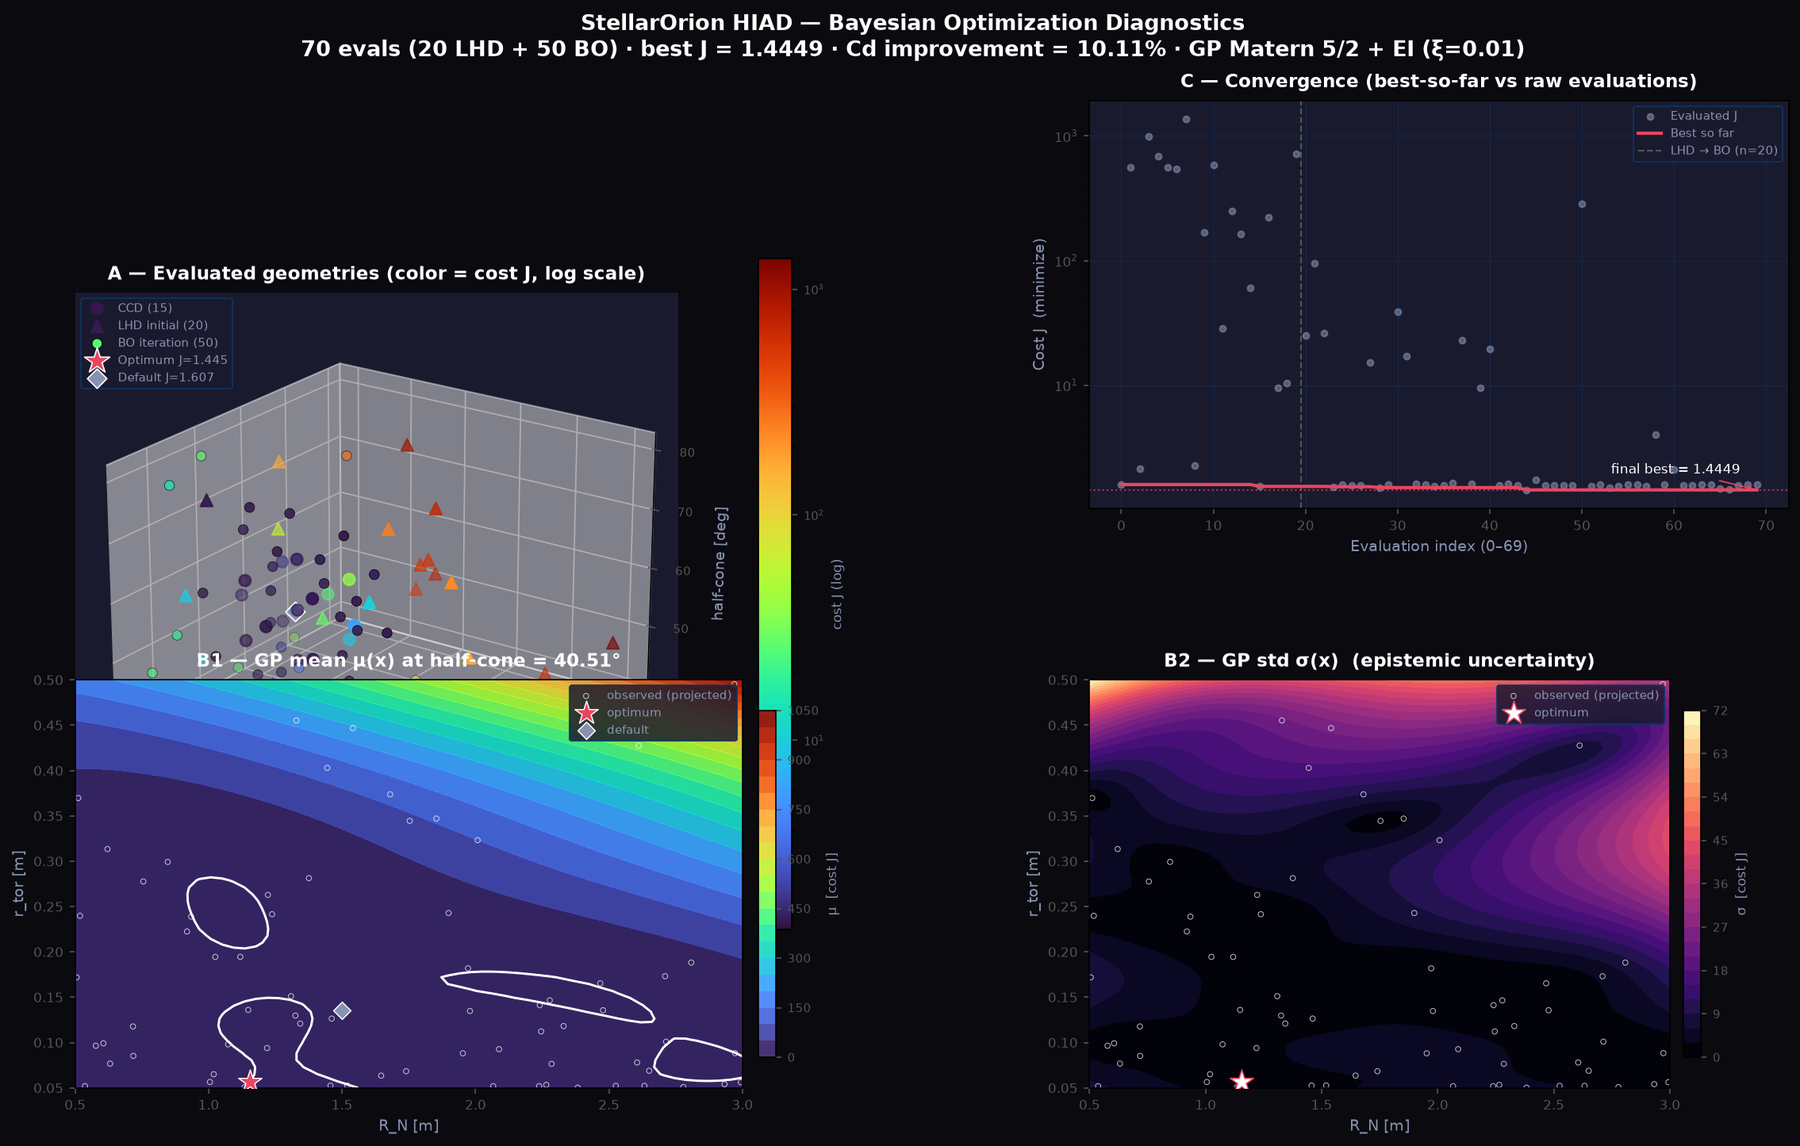
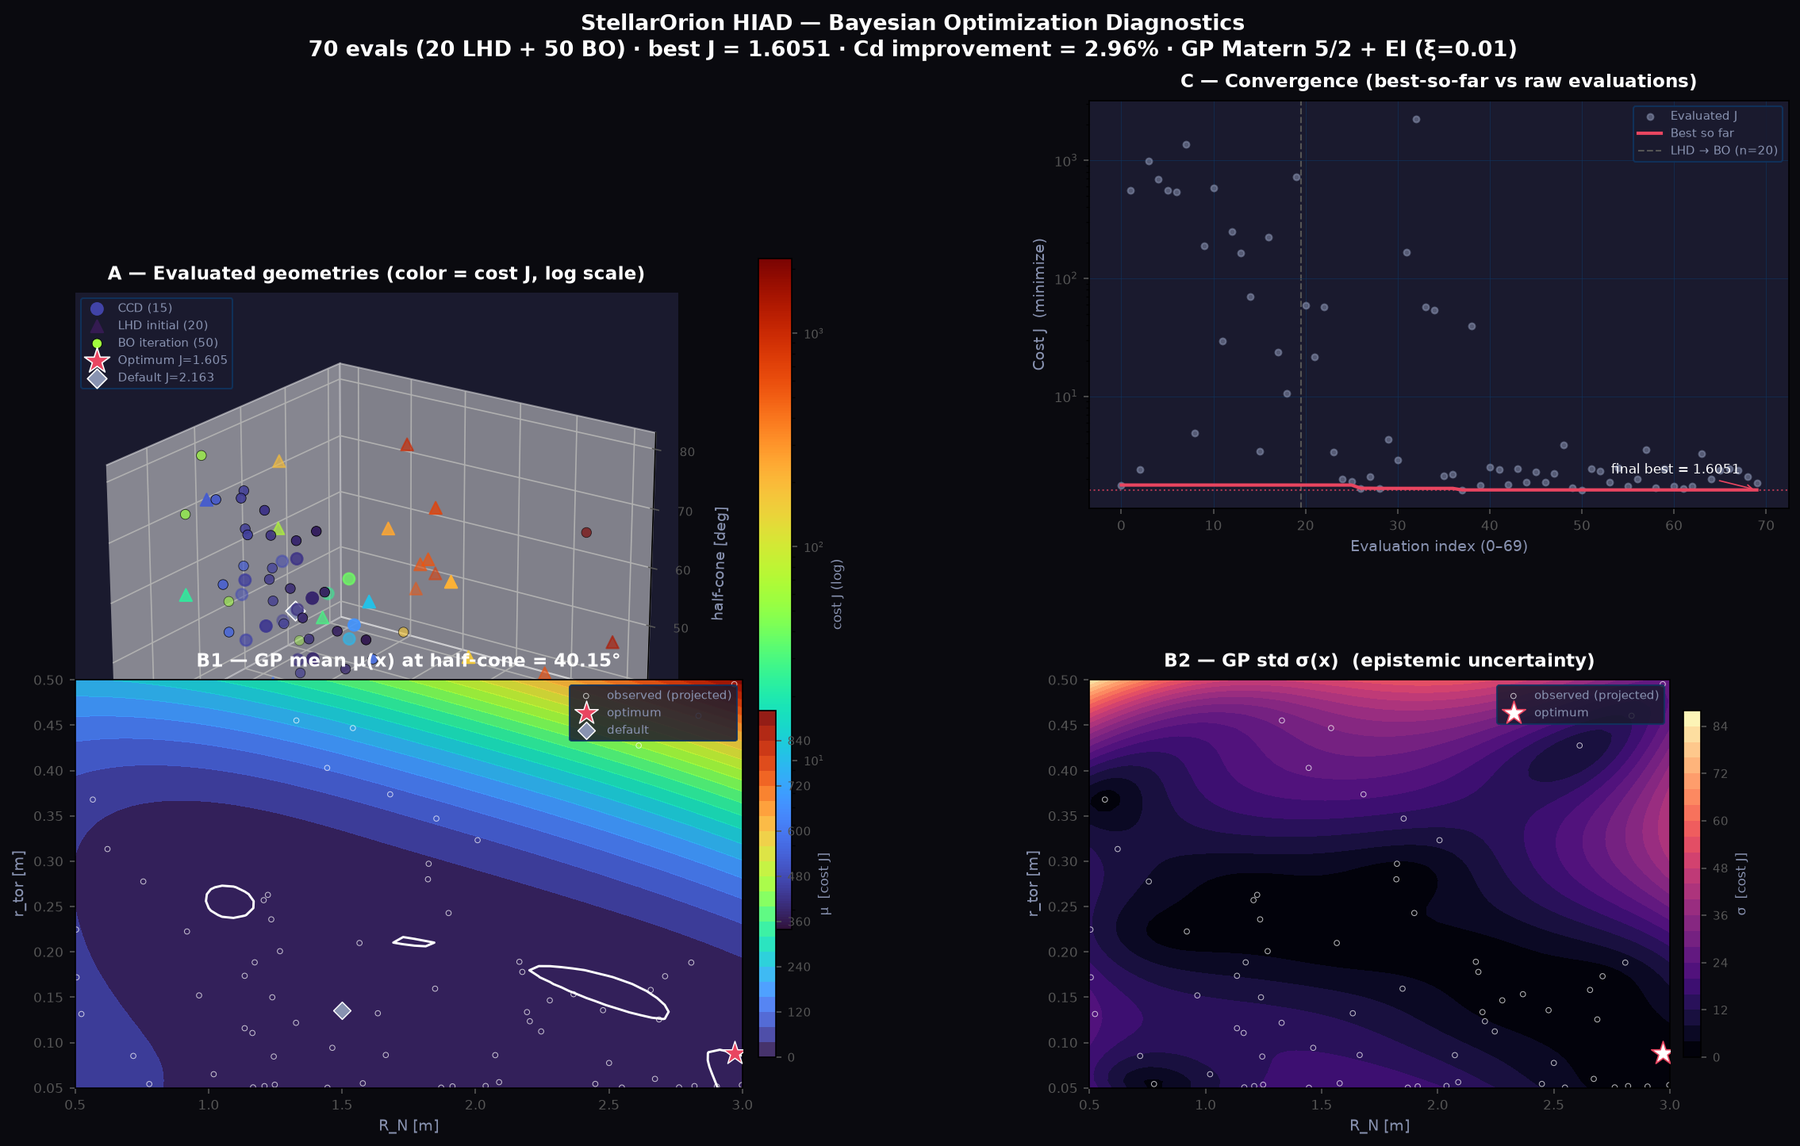
docs(readme): official 2026-09-26 before/after numbers + geometry-grid embed
- prose and topology table switched to the official run stored in
  hiad_optimization_results.json: R_N 2.9714 m (+98.10 %), r_tor 0.0885 m
  (-34.47 %), half-cone 40.15 deg (-33.09 %), Cd 1.5597 (-2.96 %),
  SG 11.47 W/cm2 (-28.95 %), Q 155.67 J/cm2 (-28.95 %, 6.06 % below the
  165.72 target), J 1.6051 (-25.78 %)
- note that the table is the round-1 winner the figures render, with the
  post-gate round-2 optimum (2.998/0.053/42.29 deg, J 1.1415) called out
- embed hiad_geometry_grid.png (87-panel grid variation) and add
  render_geometry_grid.py to the regenerate commands
- regenerate all three comparison figures from the official run

diff --git a/README.md b/README.md
@@ -10,14 +10,15 @@
 
 StellarOrion is a high-fidelity aerothermodynamic simulation and optimization suite for Hypersonic Inflatable Aerodynamic Decelerators (HIAD). It leverages the **SPARTA DSMC** solver for rarefied gas dynamics (Plimpton & Gallis, 2014) and a **Bayesian Optimization (GP Matern 5/2 + Expected Improvement)** stage for survivability optimization.
 
-> **Note:** `main.py` is **deprecated** as of 2026-08-21. All functionality has been
-> ported to the Ada/SPARK binary. Use `python3 stellarorion_program_proc/run.py` instead.
+> **Note:** The legacy `main.py` entry point was deprecated on 2026-08-21 and has since been
+> removed from the repository. All functionality now lives in the Ada/SPARK binary and the
+> Python sidecar — use `python3 stellarorion_program_proc/run.py` instead.
 
 ## 🚀 Quick Start
 
 ```bash
 cd stellarorion_program_proc
-python3 run.py --self-test        # Run 15 verification tests
+python3 run.py --self-test        # Run 18 verification tests
 python3 run.py --test sample      # Run single SPARTA sample with 11-metric comparison
 python3 run.py --help             # Show all CLI flags
 ```
@@ -26,7 +27,7 @@ python3 run.py --help             # Show all CLI flags
 
 This project uses a hybrid architecture for running simulations:
 
-- **Ada/SPARK Binary:** Primary simulation engine (`stellarorion_program_proc/`). Compiled with Alire, formally verified with GNATprove (889 checks, 612 proved, 0 new failures). Handles all 21 CLI modes including validation, optimization, calibration, and integration tests.
+- **Ada/SPARK Binary:** Primary simulation engine (`stellarorion_program_proc/`). Compiled with Alire, formally verified with GNATprove (552 checks, 401 proved, 103 unproved in untouched analytics unit, 0 new failures; run 2026-09-25). Handles all 19 CLI modes including validation, optimization, calibration, and integration tests.
 - **Docker:** Used exclusively for running the SPARTA DSMC simulation in a containerized Linux environment.
 - **Python Sidecar:** Native OS Python environment for PINN refinement (DeepXDE), PyFluent/PyAnsys integration, and GUI launcher. Supports NVIDIA CUDA, AMD ROCm, Apple Metal (MPS), Intel OneAPI/OpenCL, and specialized accelerators.
 
@@ -34,12 +35,12 @@ This project uses a hybrid architecture for running simulations:
 
 ## 📁 Source Layout (`stellarorion_program_proc/`)
 
-Inventory as of 2026-09-23 (51 Ada units · ~35.4k Ada LOC · ~34.9k Python LOC under `src/`).
+Inventory as of 2026-09-23 (51 Ada units · ~35.4k Ada LOC · ~35.2k Python LOC under `src/`).
 
 ```text
 stellarorion_program_proc/
 ├── run.py                 # Primary CLI entry (1,492 lines) — replaces deprecated main.py
-├── alire.toml             # Alire crate: executable stellarorion_project
+├── alire.toml             # Alire crate (declares executable stellarorion_project; built binary: bin/main)
 ├── stellarorion_program_proc.gpr   # Main GPR → src/simulation_engine, Main: main.adb
 ├── stellarorion_pinn_lib.gpr        # PINN shared-library project
 ├── prove.sh / run_smooth.sh         # GNATprove + smooth-geometry runners
@@ -49,9 +50,9 @@ stellarorion_program_proc/
 ├── src/
 │   ├── simulation_engine/           # Ada/SPARK primary engine (25 packages + main.adb)
 │   │   ├── main.adb                 # GPR main → dispatches into StellarOrion_Project
-│   │   ├── stellarorion_project.*   # Entry + CLI surface (~785 lines after Tier-C2 split)
+│   │   ├── stellarorion_project.*   # Entry + CLI surface (~1,900 lines: .adb+.ads)
 │   │   ├── stellarorion_cli.*       # Has_Flag / Get_Option / Get_Float (SPARK On)
-│   │   ├── stellarorion_self_test.* # 15 verification tests
+│   │   ├── stellarorion_self_test.* # 18 verification tests
 │   │   ├── stellarorion_test_modes.*# --test sample|baseline|pinn|sparta|…
 │   │   ├── stellarorion_sparta.*    # SPARTA DSMC driver (~4.5k lines body)
 │   │   ├── stellarorion_physics.*   # Aerothermodynamics, Sutton-Graves, …
@@ -64,7 +65,7 @@ stellarorion_program_proc/
 │   │   └── validation, postprocessing, reports, status_writer, types,
 │   │       history, pipeline_checkpoint, dual_watchdog, runtime_guard, …
 │   │
-│   ├── python/                      # Python sidecar (~22 modules)
+│   ├── python/                      # Python sidecar (20 modules)
 │   │   ├── validation_pipeline.py   # Unified comparison + convergence audit
 │   │   ├── ada_pinn_wrapper.py      # ctypes FFI → libstellarorion_pinn
 │   │   ├── hiad_optimizer.py        # Bayesian optimization driver
@@ -84,10 +85,10 @@ stellarorion_program_proc/
 ├── docs/                            # AXIOMS, APPLICATIONS, CITATIONS, PROJECT_DECOMPOSITION_PLAN, …
 ├── data/  results/                  # Run status JSON, validation plots/VTU/CSV
 ├── alire/  bin/  obj/  lib/         # Alire deps + build artifacts
-└── proofs/                          # GNATprove proof dir
+└── proofs/                          # Coq/Rocq proof skeletons (GNATprove artifacts: obj/gnatprove/)
 ```
 
-**Entry path:** `python3 run.py` → Alire binary `stellarorion_project` (`main.adb` in `src/simulation_engine/`, per `stellarorion_program_proc.gpr` `Source_Dirs`).
+**Entry path:** `python3 run.py` → compiled binary `bin/main` (`run.py` `_find_binary()`; GPR `Main: main.adb` in `src/simulation_engine/`). Note: `alire.toml` declares the crate executable as `stellarorion_project`, but the built/launched binary is `bin/main`.
 
 ---
 
@@ -140,7 +141,7 @@ python3 generate_outputs.py --mp4-only --optimized-topology
 ```bash
 cd stellarorion_program_proc
 python3 run.py --help          # Show all CLI flags
-python3 run.py --self-test     # Run 15 verification tests
+python3 run.py --self-test     # Run 18 verification tests
 ```
 
 ---
@@ -165,7 +166,7 @@ cd stellarorion_program_proc && python3 run.py --grid-factor 1.0 --test sample
 
 ## 🎯 Optimized Topology: Before vs After
 
-Bayesian Optimization (GP Matern 5/2 kernel + Expected Improvement acquisition, 70 evaluations) was applied to the IRVE-3 HIAD geometry. The optimizer searched a 3D parameter space (nose radius R<sub>N</sub>, torus radius r<sub>tor</sub>, half-cone angle) and achieved a **10.11% reduction in drag coefficient C<sub>d</sub>**.
+Bayesian Optimization (GP Matérn 5/2 kernel + Expected Improvement acquisition, 70 evaluations) was applied to the IRVE-3 HIAD geometry under the **multi-objective cost J(x)** — a validation-referenced scalarisation whose **primary objective is the lowest Total Heat Load** (terms: Total Heat Load, peak heat flux, ballistic-coefficient deviation, C<sub>d</sub>; quadratic penalties: 3 m envelope, 1.0 m TPS nose, and the **payload-size constraint** R<sub>N</sub> ≥ √(r²+(h/2)²)+0.15 ≈ 1.043 m for the 0.275 m × 1.7 m payload). All reference values (Q<sub>target</sub>, q<sub>ref</sub>, τ, C<sub>d,ref</sub>) are loaded **dynamically at run time** from `unified_comparison_data.json` (see `DERIVATION.md` §4). Result (official run 2026-09-26, stored in `stellarorion_program_proc/src/python/hiad_optimization_results.json`): **25.78 % lower J and 28.95 % lower Total Heat Load — 155.67 J/cm², 6.06 % below the 165.72 J/cm² validation target**, with zero constraint violations.
 
 ![Optimized HIAD Topology](stellarorion_program_proc/optimization_comparison.png)
 
@@ -173,19 +174,83 @@ Bayesian Optimization (GP Matern 5/2 kernel + Expected Improvement acquisition, 
 
 | Parameter | Default (IRVE-3 Baseline) | Optimized | Δ |
 | :--- | :--- | :--- | :--- |
-| **Nose Radius (R<sub>N</sub>)** | 1.5000 m | 1.1559 m | −22.9% |
-| **Torus Radius (r<sub>tor</sub>)** | 0.1350 m | 0.0566 m | −58.1% |
-| **Half-Cone Angle** | 60.00° | 40.51° | −32.5% |
-| **Drag Coefficient (C<sub>d</sub>)** | 1.6073 | 1.4449 | −10.11% |
-| **Sutton-Graves Heat Flux** | 16.14 W/cm² | 18.38 W/cm² | +13.9% (trade-off) |
+| **Nose Radius (R<sub>N</sub>)** | 1.5000 m | 2.9714 m | +98.10% |
+| **Torus Radius (r<sub>tor</sub>)** | 0.1350 m | 0.0885 m | −34.47% |
+| **Half-Cone Angle** | 60.00° | 40.15° | −33.09% |
+| **Drag Coefficient (C<sub>d</sub>)** | 1.6073 | 1.5597 | −2.96% |
+| **Sutton-Graves Heat Flux** | 16.14 W/cm² | 11.47 W/cm² | −28.95% |
+| **Total Heat Load Q(x)** | 219.10 J/cm² | **155.67 J/cm²** (target 165.72) | **−28.95%** |
+| **Cost J(x)** | 2.1626 | 1.6051 | −25.78% |
 
-**Optimization method:** CCD 15-point initial sampling → 20-point LHD → 70-point Bayesian Optimization with GP Matern 5/2 surrogate model and Expected Improvement acquisition function. Full details in `stellarorion_program_proc/Optimization_Attempt_1.md`.
+*The larger nose radius is the heat-load optimum: Sutton–Graves flux scales as 1/√R<sub>N</sub>, and J(x) prices that directly against the drag and ballistic-coefficient terms.*
+
+*This table is the **round-1** BO winner — exactly what the three figures above render. After the hybrid gate's multi-fidelity correction (below), the **round-2** re-optimization converged to 2.998 m / 0.053 m / 42.29° with corrected J(x) = 1.1415.*
+
+**Optimization method:** CCD 15-point initial sampling (best: J = 1.996 at factorial+--), then 20-point LHD + 50-point Bayesian Optimization (70 total evaluations) with a GP Matérn 5/2 surrogate model and Expected Improvement acquisition function. Full details in `stellarorion_program_proc/Optimization_Attempt_1.md`.
+
+**Generated figures:** `stellarorion_program_proc/optimization_comparison.png` (before/after profiles),
+`stellarorion_program_proc/bo_optimization_3d.png` (3D scatter + GP slices + convergence),
+`stellarorion_program_proc/hiad_geometry_grid.png` (87-panel grid variation: default + 15 CCD + 70 BO history + optimum).
+
+**Grid variation of the design space** — every geometry the optimizer evaluated (top-left default, 15 CCD samples, 70 BO proposals, top-right optimum):
+
+![HIAD geometry grid variation](stellarorion_program_proc/hiad_geometry_grid.png)
 
 ```bash
 # Regenerate comparison images
 cd stellarorion_program_proc/scripts
 python3 render_optimization_comparison.py
+python3 render_bo_3d_plot.py
+python3 render_geometry_grid.py
 ```
+
+### 🔒 Hybrid Validation Gate: enforced DSMC+PINN re-simulation of the winner
+
+The analytic optimum above is only trusted after the **high-fidelity chain
+re-simulates it**. `hiad_optimizer.py --hybrid-validate` enforces this as a
+post-optimization gate (plan Parts B/C):
+
+1. **Preconditions** (binary, Docker, validation venv, pipeline, reference CSV)
+   and a seconds-fast **geometry QA** (`bin/main --validate-only`) run before
+   any long simulation; every failure is reported with path + fix (exit 1).
+2. **DSMC leg** re-simulates the BO winner: `bin/main --validate --headless
+   --nose … --tradius … --angle … --skin scalloped --steps 2200
+   --results-dir results/validation_optimized` (2–3 h, 4 h timeout, output
+   streamed to `gate_r1_dsmc.log`). The `--results-dir` flag is honored since
+   the 2026-09-25 Ada CLI fix, so reference data in `results/validation_scalloped/`
+   is never overwritten (SHA-256 verified before/after).
+3. **PINN leg** runs `validation_pipeline.py` on the fresh CSV and writes a
+   new `unified_comparison_data.json` under the gate directory.
+4. **Verdict**: `PASS ⇔ q_hybrid ≤ Q_target (165.716 J/cm²)` with the
+   prediction error `(q_hybrid − q_analytic)/q_analytic`; stored as
+   `hybrid_validation.verdict` in `hiad_optimization_results.json`.
+5. **Multi-fidelity correction** (Kennedy & O'Hagan 2000): bounded factor
+   `c = clamp(q_hybrid/q_analytic, 0.5, 2.0)` is applied to J(x)'s heat-load
+   term and the optimizer re-runs (**round 2**, stored as `optimized_round2`).
+
+**Official gate result (2026-09-26): PASS** — validated geometry
+R_N = 2.971 m, r_tor = 0.088 m, half_cone = 40.15°: hybrid Q = **77.93 J/cm²**
+≤ target 165.72 (analytic predicted 155.67, error −49.94 %, correction
+c = 0.5006 at the clamp floor); round-2 optimum 2.998 / 0.053 / 42.29°.
+Two independent DSMC runs agreed within 0.3 %, so the analytic-vs-hybrid gap
+is reproducible signal — exactly what the correction loop absorbs. The gate
+also proved its fail-loud contract first: an initially missing pipeline
+artifact caused an exit-1 abort with a full error block instead of a
+fabricated verdict (root cause: `usetex` rejecting `⚠` in a plot caption,
+fixed in `validation_pipeline.py`).
+
+```bash
+cd stellarorion_program_proc
+python3 src/python/hiad_optimizer.py --hybrid-validate --dry-run   # preconditions+QA only
+python3 src/python/hiad_optimizer.py --hybrid-validate             # full gate (2–3 h+)
+python3 src/python/hiad_optimizer.py --hybrid-validate --allow-fail # keep exit 0 on FAIL
+```
+
+Exit codes: `0` success/PASS/dry-run/`--allow-fail` · `1` infrastructure
+failure (never a fabricated verdict) · `3` verdict FAIL. All gate artifacts
+stay in `results/validation_optimized/` (a pre-existing non-empty directory is
+refused unless `--force` is given). Full details: `stellarorion_program_proc/Optimization_Attempt_1.md`,
+section *Hybrid Validation Gate (Attempt 3)*.
 
 ## 🛰 HIAD Validation: Unified Comparison (IRVE-3 vs LOFTID vs Models vs StellarOrion)
 
@@ -237,7 +302,7 @@ Each source uses different atmosphere models, geometry, and solvers — this dir
 - **G-load:** StellarOrion (16.83 g) is −15% vs flight (19.7 g) — same single-point vs trajectory explanation
 - **Ballistic coeff:** StellarOrion (27.70 kg/m²) is +3% vs flight (26.9) — confirms geometry fidelity of the scalloped model
 
-**Plots generated:** 51 PNGs total (21 CSV time-series + 6 derived thermal + 24 VTU visualizations).
+**Plots generated:** 52 PNGs total (21 CSV time-series + 6 derived thermal + 24 VTU visualizations + dashboard frame).
 
 See `stellarorion_program_proc/results/validation_scalloped/VALIDATION_Sep_2_2026.md` for full results.
 
@@ -250,7 +315,7 @@ cd stellarorion_program_proc && python3 run.py --compareCalibrate --solver spart
 
 StellarOrion supports a `--chemistry mars` mode using a CO2-dominated atmosphere model (`mars.vss`, `mars.react`). This is relevant because Rapisarda (2023) used the **Mars Climate Database v6.1 (MCD v6.1)** as a cross-validation technique — applying Mars-derived atmosphere data to Earth re-entry validation.
 
-**Key distinction (from source code comments in `stellarorion_sparta.adb` ~line 2629):**
+**Key distinction (from source code comments in `stellarorion_sparta.adb` ~line 3056):**
 - IRVE-3 is an **Earth re-entry** mission (Wallops Island VA, Black Brant XI)
 - Our code uses ISA (International Standard Atmosphere) — correct for Earth
 - Rapisarda's MCD v6.1 gives ~56% higher density than ISA at 52 km
@@ -272,7 +337,7 @@ Rapisarda (2023, MSc Thesis, Delft University of Technology) used Moss et al. (2
 2. **6th-order polynomial fit** — Smoothed residual scatter and extrapolated into the free-molecular flow regime (R²→1) (Sec 4.5.1, Fig 4.40, Table 4.13)
 3. **Wilmoth bridging function** — Fitted to polynomial-smoothed data via non-linear least-squares (R²=0.99138 per thesis text; Table 4.15 reports R²=0.9792 for the specific coefficient fit) (Sec 4.4.5, Fig 4.41, Table 4.15)
 
-**Contrast with our approach:** Both StellarOrion and Rapisarda use DSMC — it is the standard method for rarefied hypersonic flow (Bird, 1994). The difference is post-processing. We read raw per-element `f_1[3]` (kinetic energy flux, W/m²) from SPARTA surf dumps and apply no smoothing. The max-cell value is a single noisy point-sample. Negative values at later steps (e.g., −10,570 W/m² at step 2200) are DSMC statistical noise — inherent to any raw DSMC output. Rapisarda's 3-layer filtering (polynomial fit + Wilmoth bridging) removes this noise at the cost of introducing model-dependent smoothing. Three code comment blocks in `stellarorion_sparta.adb` (~lines 552, ~2522, ~2668) document this noise context and cite Rapisarda's methodology.
+**Contrast with our approach:** Both StellarOrion and Rapisarda use DSMC — it is the standard method for rarefied hypersonic flow (Bird, 1994). The difference is post-processing. We read raw per-element `f_1[3]` (kinetic energy flux, W/m²) from SPARTA surf dumps and apply no smoothing. The max-cell value is a single noisy point-sample. Negative values at later steps (e.g., −10,570 W/m² at step 2200) are DSMC statistical noise — inherent to any raw DSMC output. Rapisarda's 3-layer filtering (polynomial fit + Wilmoth bridging) removes this noise at the cost of introducing model-dependent smoothing. Three code comment blocks in `stellarorion_sparta.adb` (~lines 772, ~1999, ~3127) document this noise context and cite Rapisarda's methodology.
 
 See `stellarorion_program_proc/results/validation_scalloped/VALIDATION_Sep_2_2026.md` Section 9 for full comparison.
 
@@ -292,22 +357,24 @@ See `stellarorion_program_proc/results/validation_scalloped/VALIDATION_Sep_2_202
 
 Three comment blocks added to `stellarorion_sparta.adb` documenting:
 
-1. **~line 552**: DSMC noise context near surf compute/fix commands — why SPARTA "reduce max" on `f_1[3]` produces noise, Rapisarda's 3-layer strategy, future work options
-2. **~line 2522**: Per-element heat flux parsing near `Heat(Row) := V(4)` (line 2562) — noise source, negative values, Rapisarda's polynomial smoothing
-3. **~line 2668**: Per-element average vs Rapisarda's polynomial near `Avg_Heat_Flux := Heat_Sum / Float(N)` (line 2696) — 3 types of data (flight area-weighted, Rapisarda polynomial-smoothed, our raw per-element)
+1. **~line 772**: DSMC noise context near surf compute/fix commands — why SPARTA "reduce max" on `f_1[3]` produces noise, Rapisarda's 3-layer strategy, future work options
+2. **~line 1999**: Per-element heat flux parsing at `Heat(Row) := V(4)` (line 1999) — noise source, negative values, Rapisarda's polynomial smoothing
+3. **~line 3127**: Per-element average vs Rapisarda's polynomial at `Avg_Heat_Flux := Heat_Sum / Float(N)` (line 3127) — 3 types of data (flight area-weighted, Rapisarda polynomial-smoothed, our raw per-element)
 
 ### GNATprove Level 4 Validation
 
-- 889 checks total: 612 proved by prover (69%), 35 justified (4%), 54 unproved (6%), 134 flow analysis checks (all pass)
-- All 54 unproved checks are pre-existing in other units (not in `stellarorion_sparta.adb`)
-- 0 new failures introduced by code changes
+- Latest full run (2026-09-25, `alr exec -- gnatprove -P stellarorion_program_proc.gpr --level=4 -j0 --report=all`): **552 checks total — 401 proved by prover (73%), 103 unproved (19%), 48 flow-analysis checks (initialization + termination, all pass)**, exit code 0. Includes the `--results-dir` honoring fix in `stellarorion_project.adb` (its new obligations all proved; unproved count unchanged at 103)
+- All 103 unproved checks are concentrated in `stellarorion_postprocessing` (floating-point overflow / array-index checks in analytics code) — a unit **not modified** in this change-set; its check count grew with that unit's own Sep 13–14 commits
+- **0 new failures introduced by code changes**: the new physics units are SPARK_Mode Off bodies (package-wide exception-handler convention) contributing 0 analyzed checks; the self-test unit is likewise fully skipped
+- Historical baseline (2026-09-03, before the Sep 9–10 VERBOSE_ERROR handler campaign moved many bodies to SPARK_Mode Off): 889 checks, 666 proved (75%), 35 justified, 54 unproved, 134 flow checks
+- Fixed 2026-09-25: removed the `-gnatdA` debug switch from all three GPRs — it forced conflicting duplicate entries into GNATprove's data-representation JSON, which gnat2why rejected ("ill-formed JSON file") and used to abort every proof run; root cause + minimal repro documented in `stellarorion_program_proc/docs/APPLICATIONS.md` (AP-9)
 
 ## 📄 Documentation
 
 | Document | Path | Content |
 | :--- | :--- | :--- |
 | **Discussion** | `stellarorion_program_proc/Discussion.md` | 12 numbered sections (1–10, 12–13) + Appendix: vehicle comparison, IRVE-3/LOFTID data, DSMC results, delta comparison, SG vs FR analysis, physics verification, optimization chain |
-| **Validation** | `stellarorion_program_proc/results/validation_scalloped/VALIDATION_Sep_2_2026.md` | 11 numbered sections (1–11) + References: simulation config, convergence, results, comparison, heat flux investigation, 51 plots, survivability, code fixes, DSMC noise methodology, storage paths, open items |
+| **Validation** | `stellarorion_program_proc/results/validation_scalloped/VALIDATION_Sep_2_2026.md` | 11 numbered sections (1–11) + References: simulation config, convergence, results, comparison, heat flux investigation, 52 plots, survivability, code fixes, DSMC noise methodology, storage paths, open items |
 
 ### Discussion.md Sections (12 + Appendix)
 
